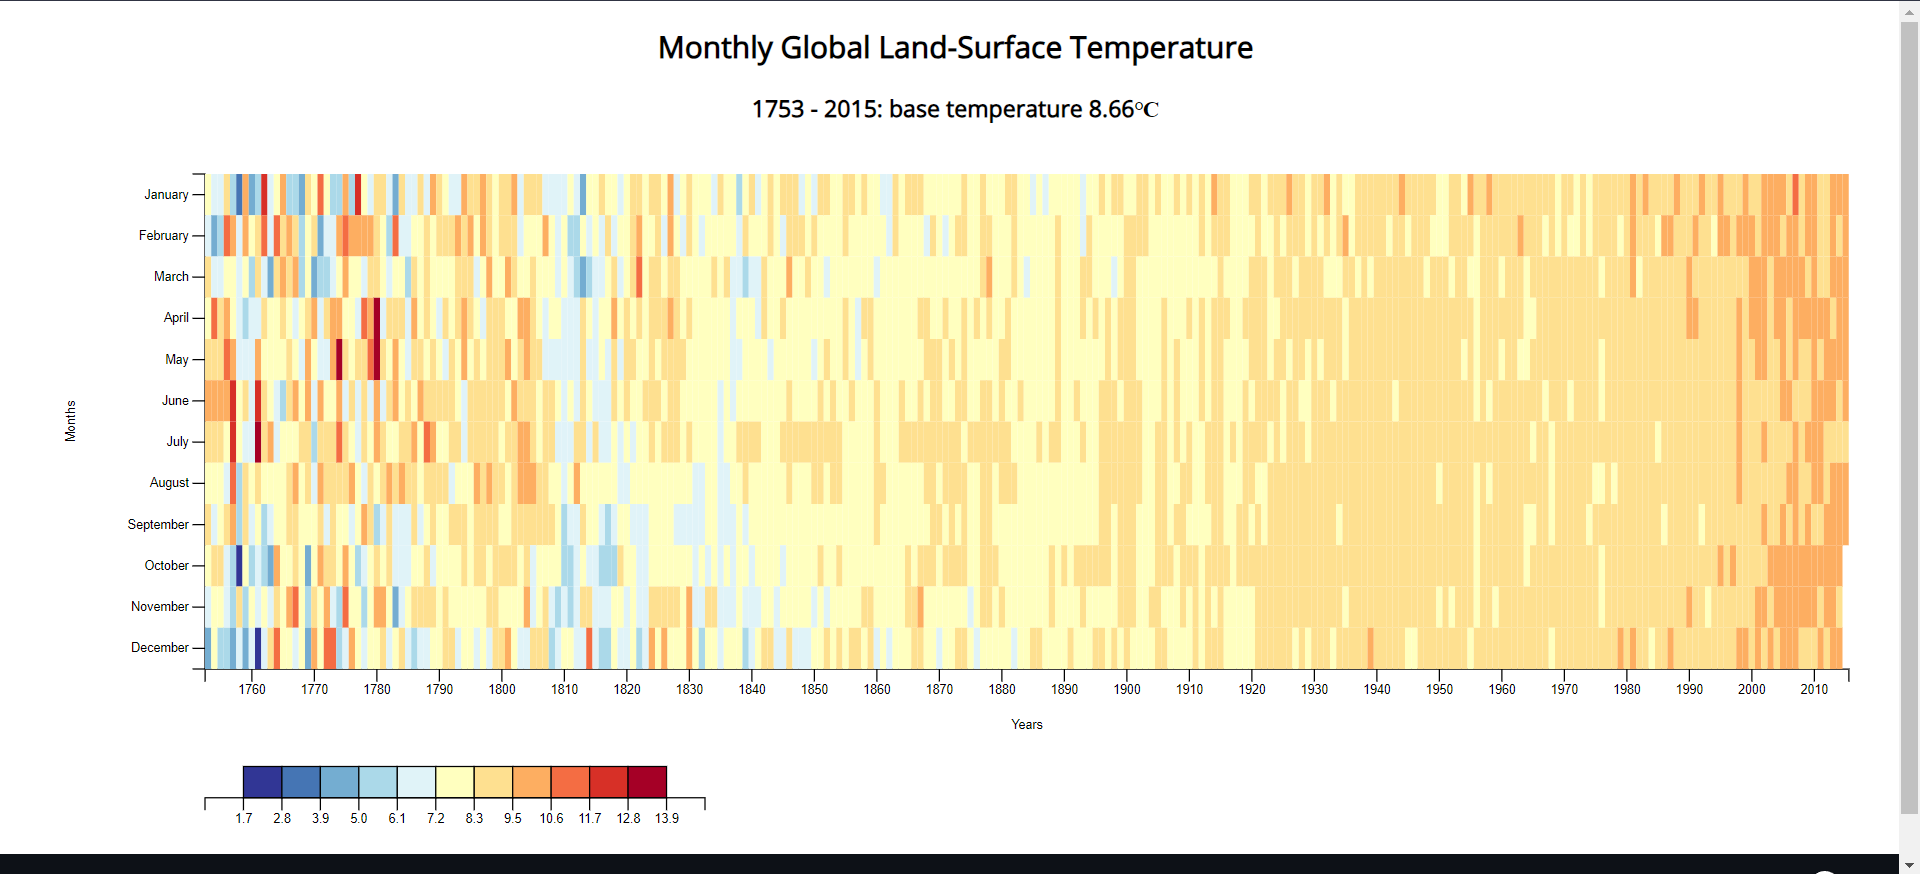
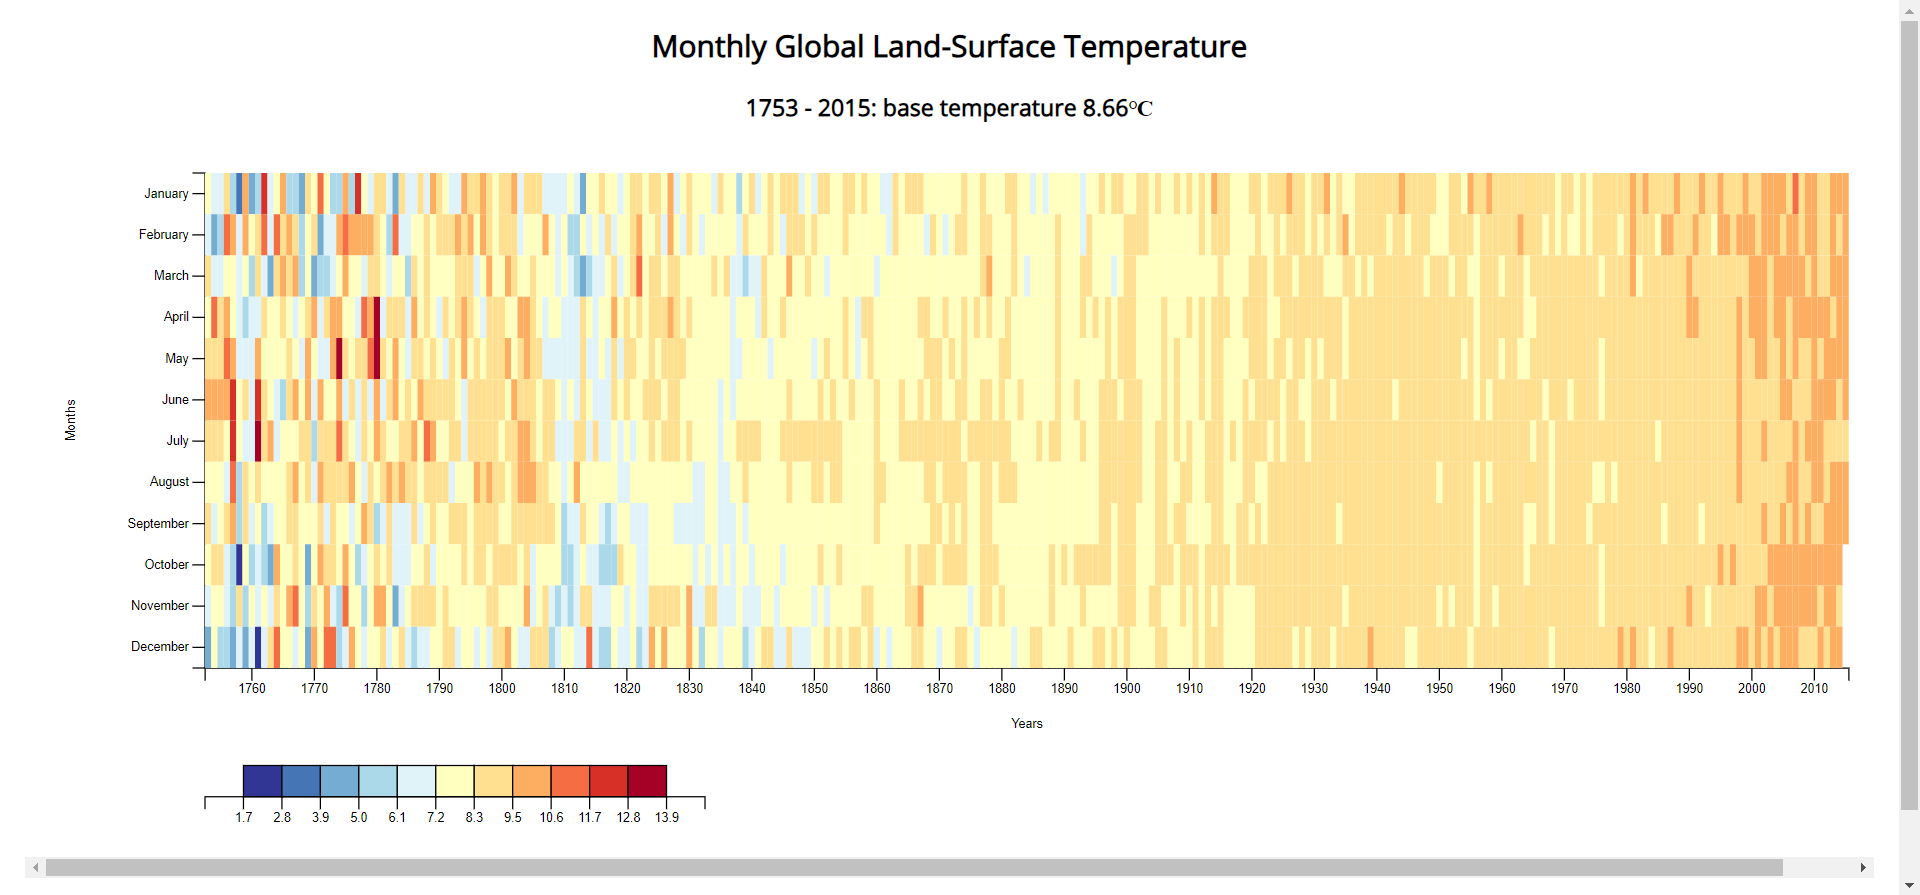
Add scrollbar

diff --git a/script.js b/script.js
@@ -1,7 +1,7 @@
 d3.json('https://raw.githubusercontent.com/freeCodeCamp/ProjectReferenceData/master/global-temperature.json')
   .then(dataset => {
     const paddingLeft = 144;
-    const paddingRight = 30;
+    const paddingRight = 80;
     const paddingTop = 40;
     const paddingBottom = 128;
     const width = 1315;
@@ -70,12 +70,17 @@ d3.json('https://raw.githubusercontent.com/freeCodeCamp/ProjectReferenceData/mas
       .style('color', 'white')
       .style('font-size', '1.6rem')
       .style('font-family', "'Open Sans', sans-serif")
+      .style('white-space', 'nowrap')
 
     // Main SVG
-    const svg = d3.select('main')
-      .append('svg')
+    const container = d3.select('main')
+      .append('div')
+      .style('overflow-x', 'auto')
+      .style('width', '100%')
+
+    const svg = container.append('svg')
       .style('width', width + paddingLeft + paddingRight)
-      .style('height', height + paddingTop + paddingBottom)
+      .style('height', height + paddingTop + paddingBottom + 20)
 
     // x-axis
     svg.append('g')

diff --git a/styles.css b/styles.css
@@ -8,6 +8,7 @@ main {
   margin: auto auto;
   align-items: center;
   padding: 20px;
+  width: 100%;
 }
 
 /* Footer */
